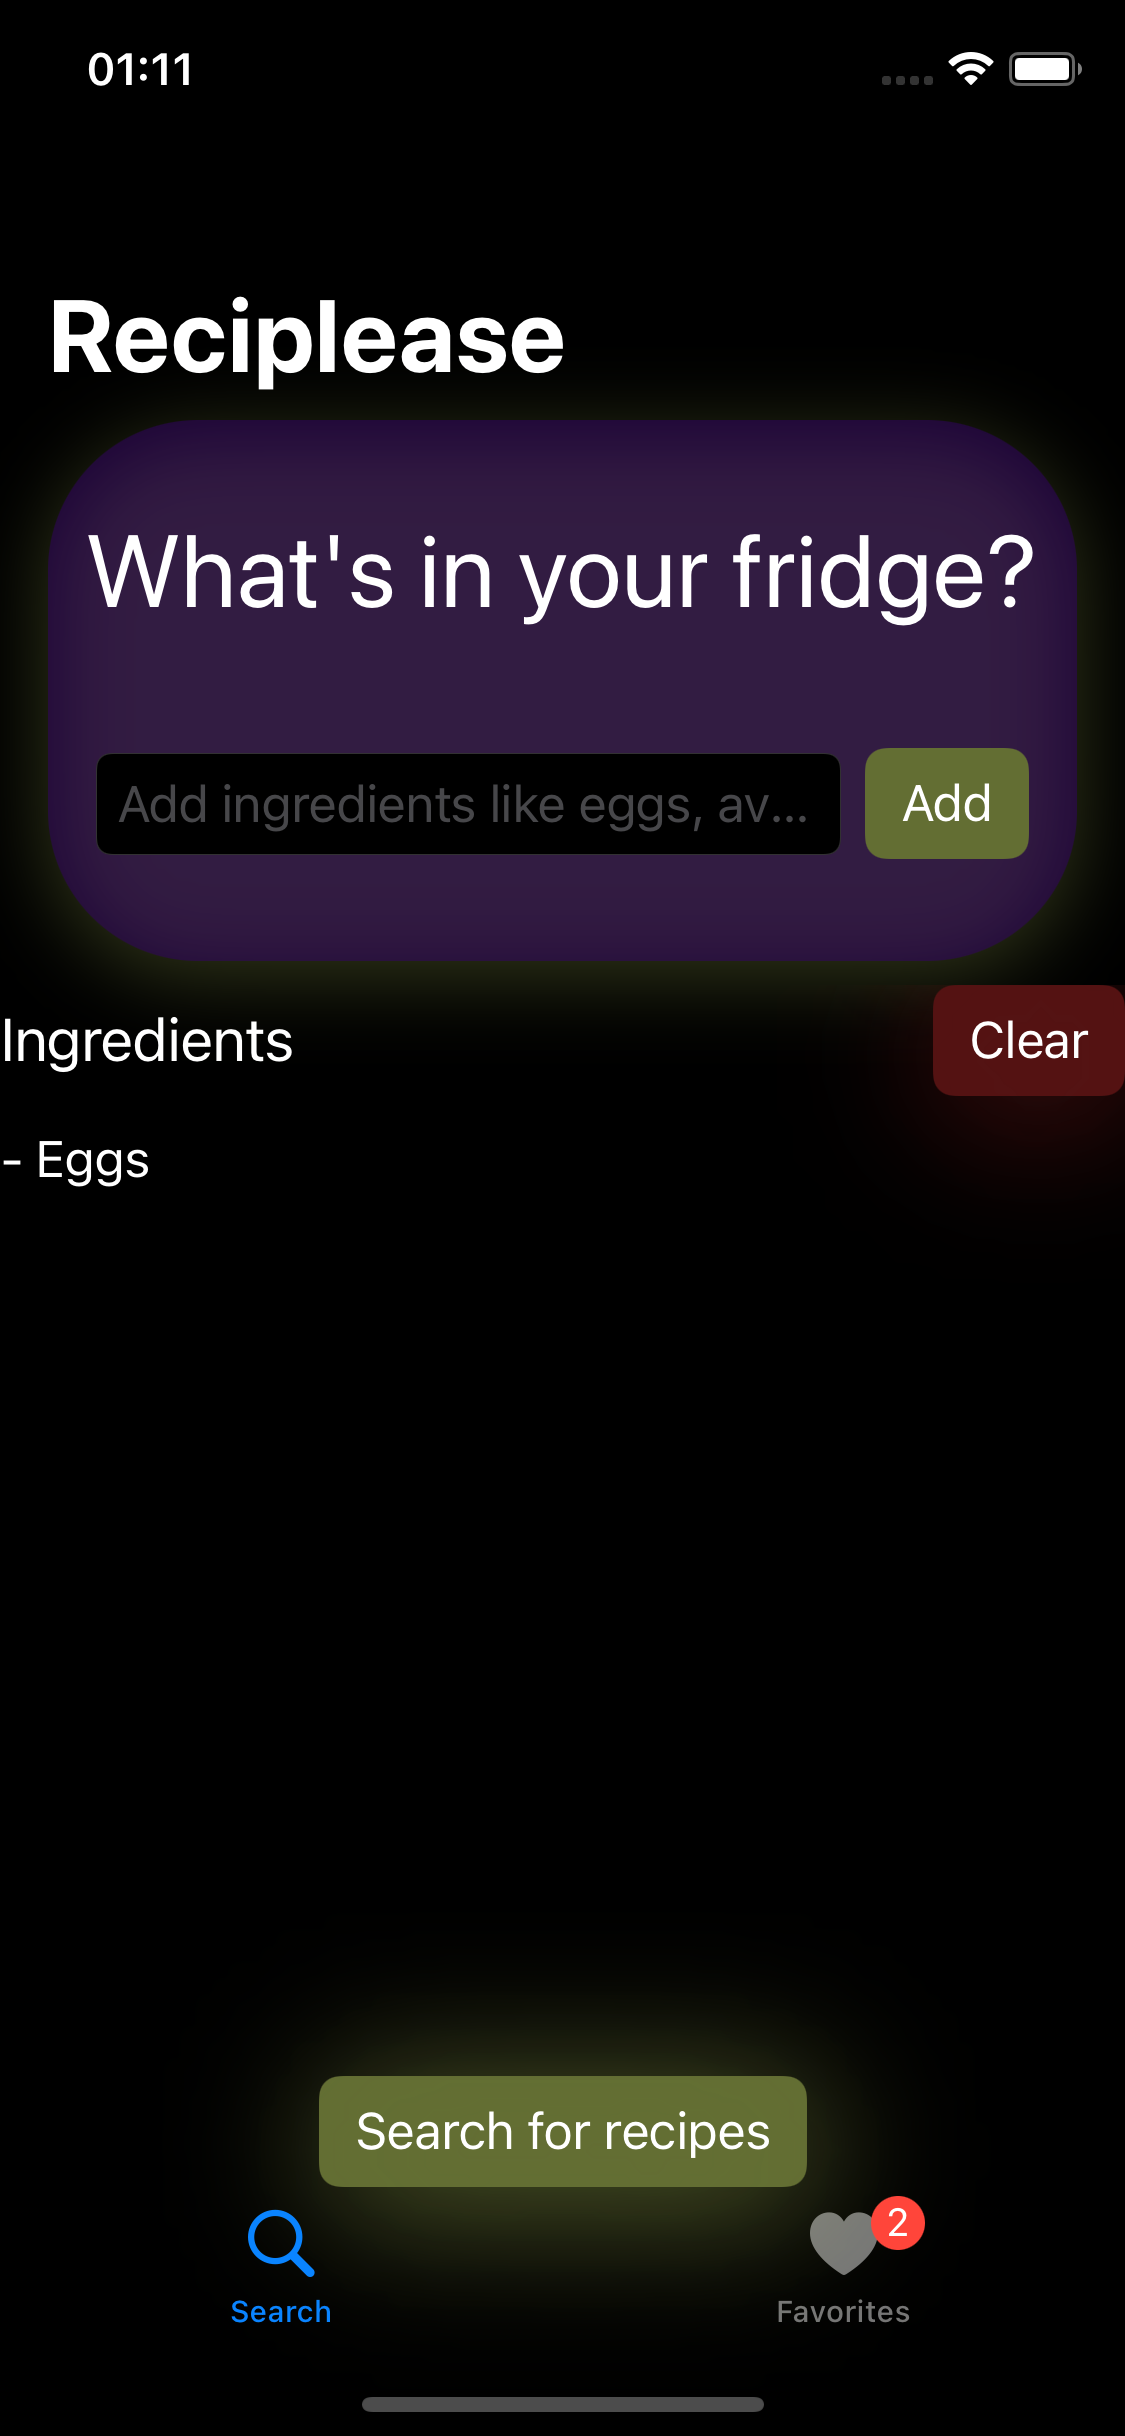
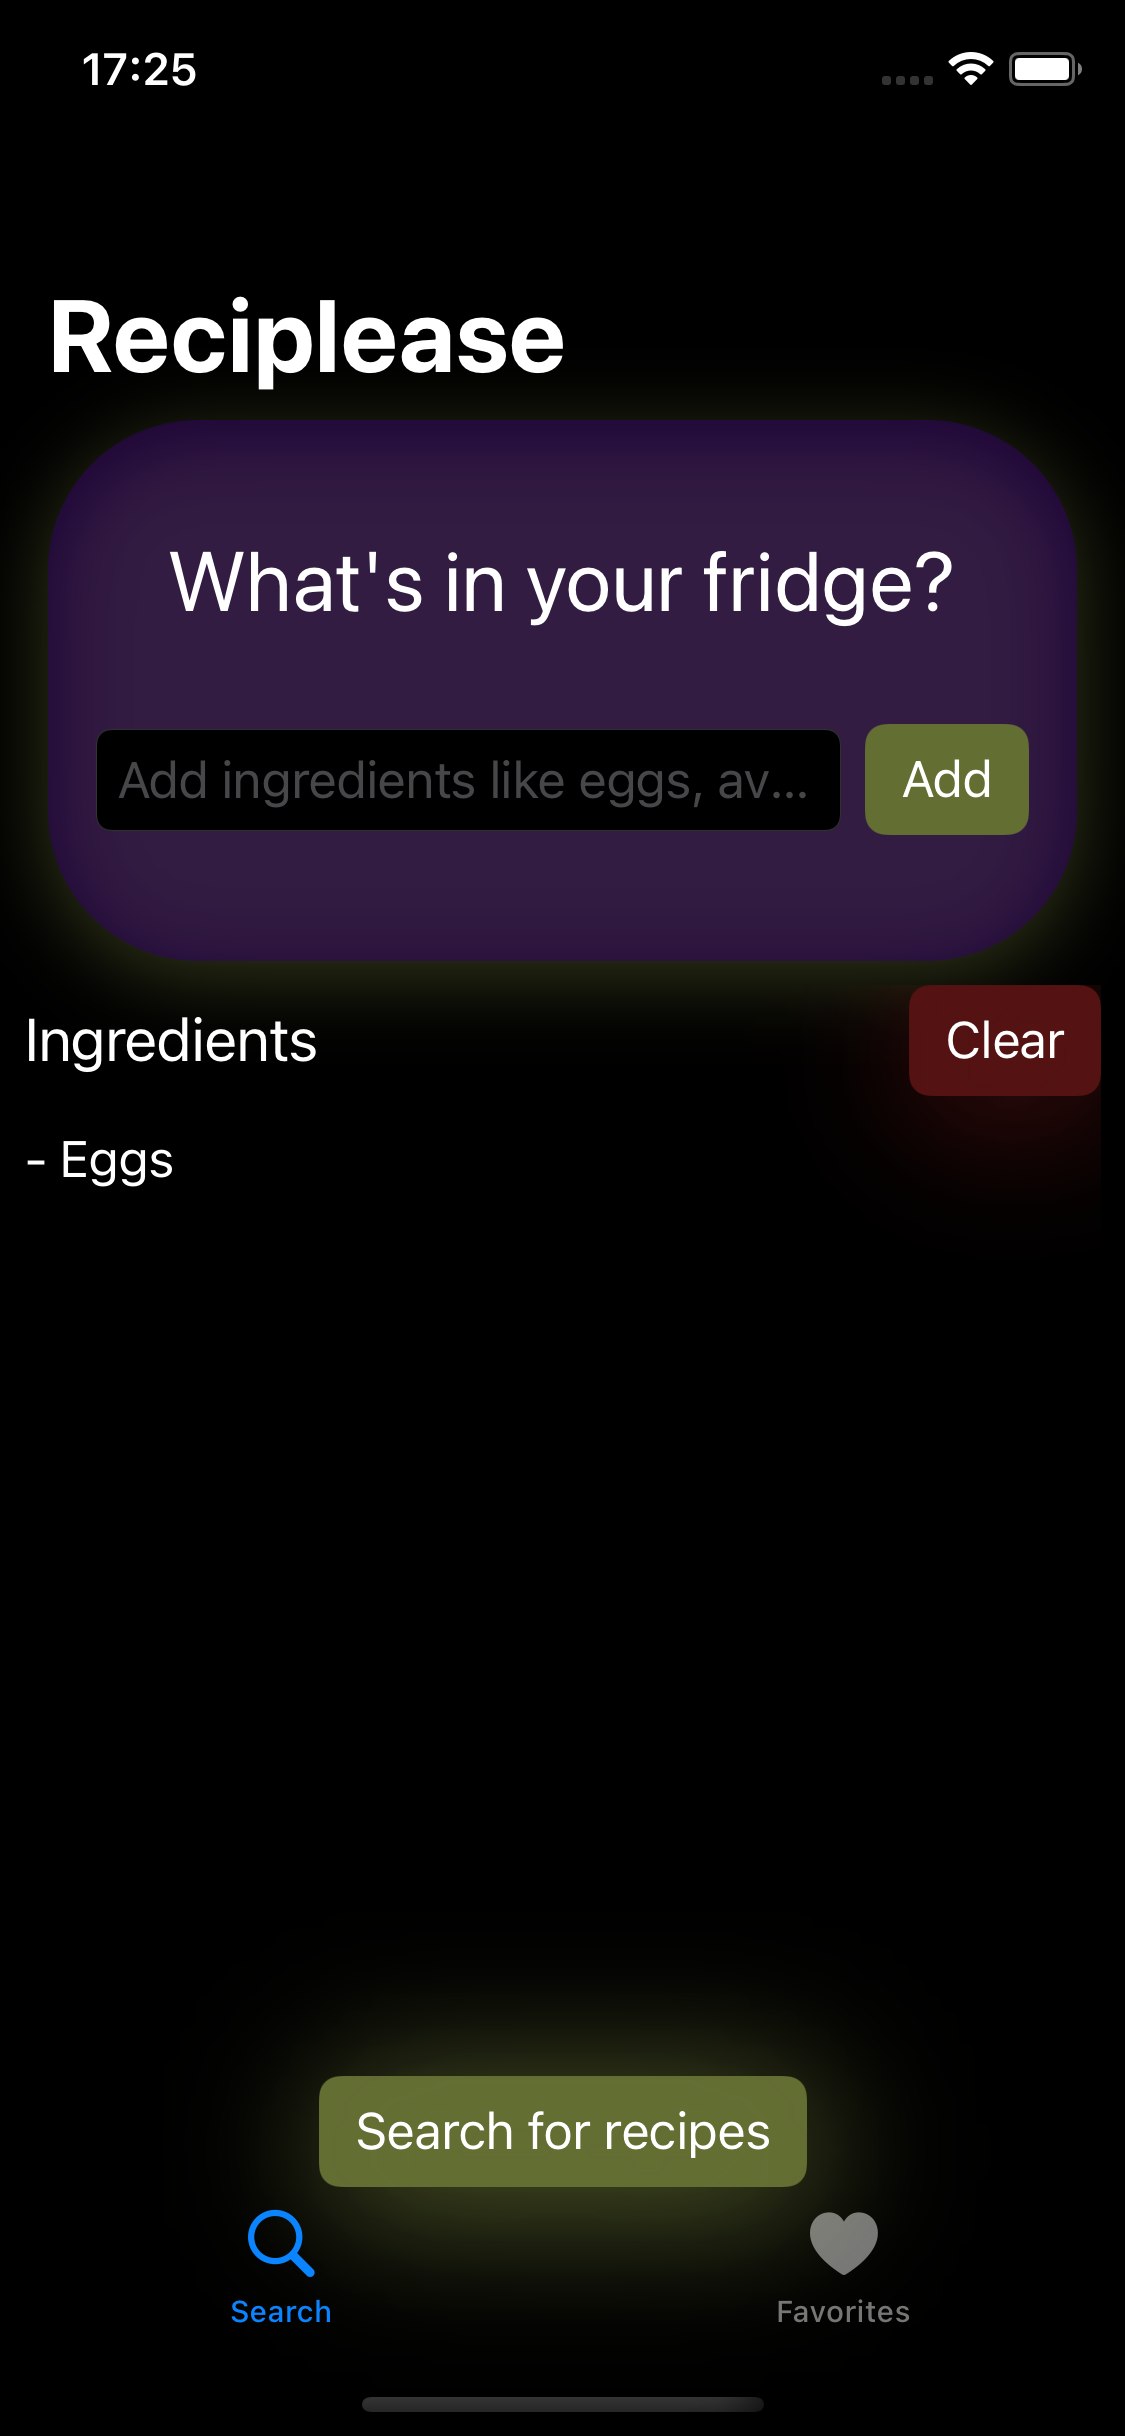
update readme images for search

diff --git a/readme.md b/readme.md
@@ -34,7 +34,10 @@ Each element of this application are being accessible with VoiceOver.
 ![](images/launchScreen.png)
 
 #### Search
-![](images/search.png)
+
+Empty            |  Added ingredient
+:-------------------------:|:-------------------------:
+![](images/search_empty.png) | ![](images/search.png)
 
 
 #### Result
